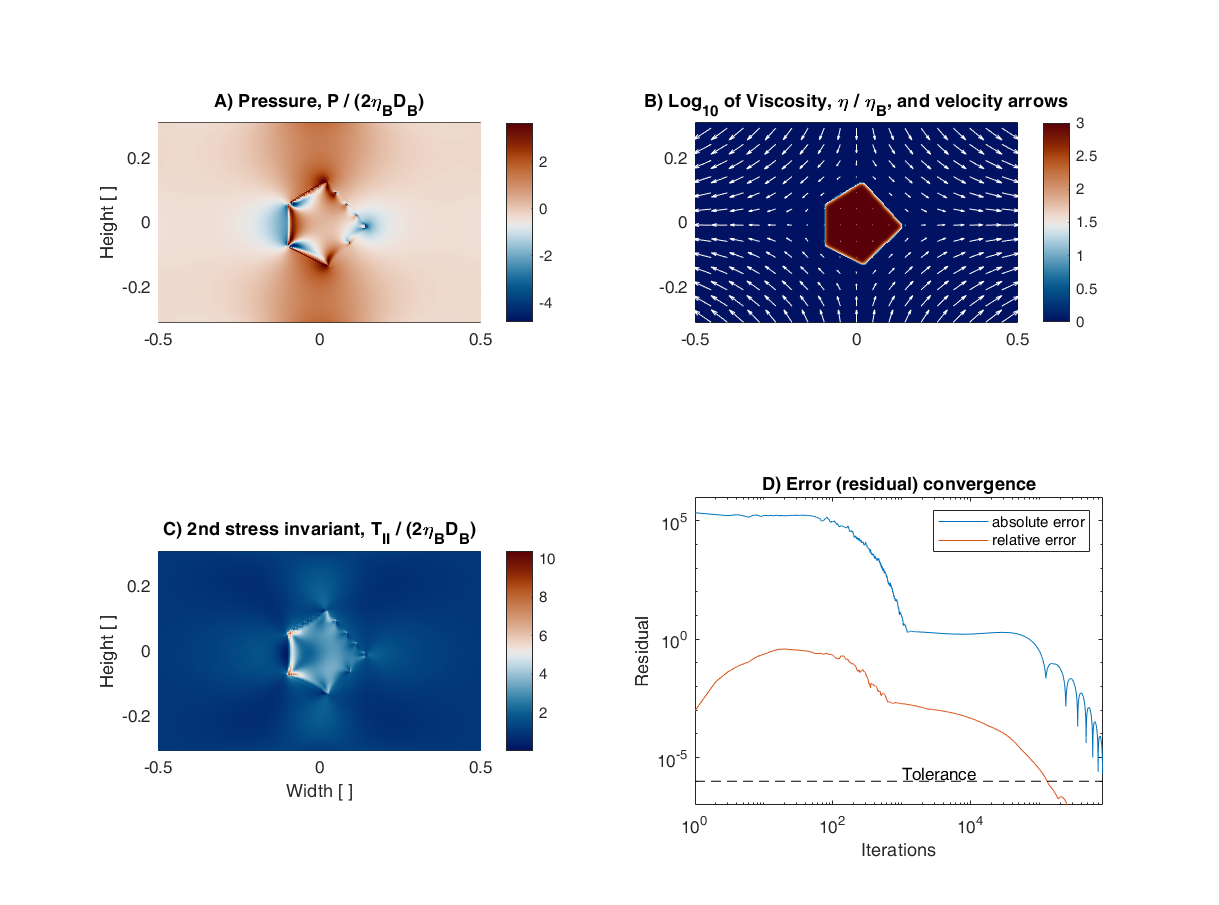
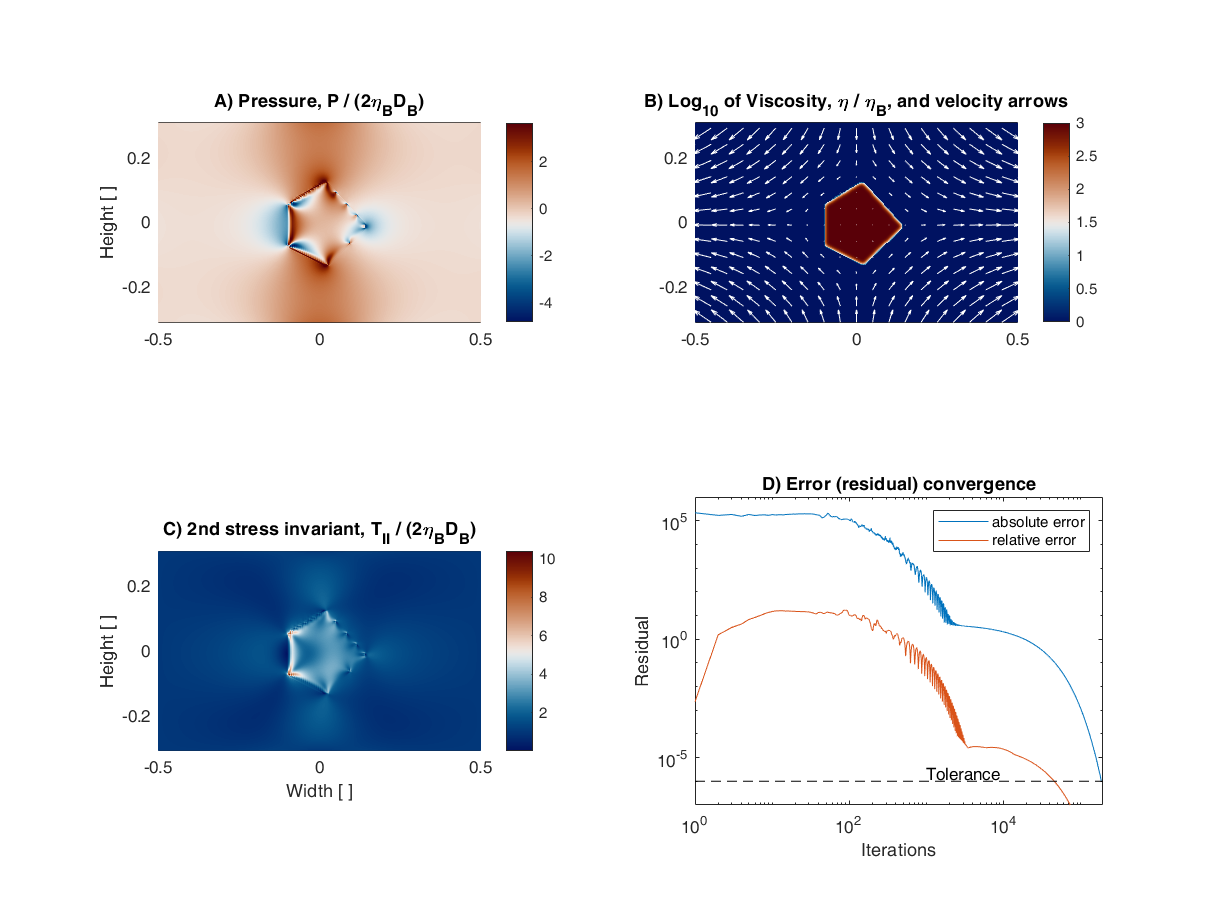
speedup

diff --git a/Examples_Matlab/FIG09_MulitInclusions.m b/Examples_Matlab/FIG09_MulitInclusions.m
@@ -80,8 +80,7 @@ elseif ps==0,   VX      =  D_B*Y_vx;        VY      =   0*Y_vy; end
 % Parameters for pseudo-transient iterations
 tol             = 1e-6;             err_absolute    = 1;            err_relative = 1;
 %%% Numerical parameters for iterative solver %%%
-%CFLV            = 1/5;              CFLP            = CFLV/nx/20;   % Numerical parameter for iterative solver
-CFLV            = 1/5;              CFLP            = CFLV/nx/50;   % Numerical parameter for iterative solver
+CFLV            = 1/2.10;           CFLP            = CFLV/nx/25;   % Numerical parameter for iterative solver
 dpt_P           = zeros(nx,ny);
 dpt_Vx          = CFLV./(max(ETA(1:end-1,2:end-1),ETA(2:end,2:end-1))/dx^2 + max(ETA_XY(:,1:end-1),ETA_XY(:,2:end))/dx/dy);
 dpt_Vy          = CFLV./(max(ETA(2:end-1,1:end-1),ETA(2:end-1,2:end))/dy^2 + max(ETA_XY(1:end-1,:),ETA_XY(2:end,:))/dx/dy);

diff --git a/A_simple_computer_program_Matlab_v2_corrected.m b/A_simple_computer_program_Matlab_v2_corrected.m
@@ -35,7 +35,7 @@ elseif ps==0,   VX      =  D_B*Y_vx;        VY      =   0*Y_vy; end
 % Parameters for pseudo-transient iterations
 tol             = 5e-6;             err_absolute    = 1;            err_relative = 1;
 %%% Numerical parameters for iterative solver %%%
-CFLV            = 1/5;              CFLP            = CFLV/nx/20;   % Numerical parameter for iterative solver
+CFLV            = 1/2.05;           CFLP            = CFLV/nx*2.5;  % Numerical parameter for iterative solver
 dpt_P           = zeros(nx,ny);
 dpt_Vx          = CFLV./(max(ETA(1:end-1,2:end-1),ETA(2:end,2:end-1))/dx^2 + max(ETA_XY(:,1:end-1),ETA_XY(:,2:end))/dx/dy);
 dpt_Vy          = CFLV./(max(ETA(2:end-1,1:end-1),ETA(2:end-1,2:end))/dy^2 + max(ETA_XY(1:end-1,:),ETA_XY(2:end,:))/dx/dy);

diff --git a/A_simple_computer_program_Octave_v2_corrected.m b/A_simple_computer_program_Octave_v2_corrected.m
@@ -47,7 +47,7 @@ elseif ps==0,   VX      =  D_B*Y_vx;        VY      =   0*Y_vy; end
 % Parameters for pseudo-transient iterations
 tol             = 5e-6;             err_absolute    = 1;            err_relative = 1;
 %%% Numerical parameters for iterative solver %%%
-CFLV            = 1/5;              CFLP            = CFLV/nx/20;   % Numerical parameter for iterative solver
+CFLV            = 1/2.05;           CFLP            = CFLV/nx*2.5;  % Numerical parameter for iterative solver
 dpt_P           = zeros(nx,ny);
 dpt_Vx          = CFLV./(max(ETA(1:end-1,2:end-1),ETA(2:end,2:end-1))/dx^2 + max(ETA_XY(:,1:end-1),ETA_XY(:,2:end))/dx/dy);
 dpt_Vy          = CFLV./(max(ETA(2:end-1,1:end-1),ETA(2:end-1,2:end))/dy^2 + max(ETA_XY(1:end-1,:),ETA_XY(2:end,:))/dx/dy);

diff --git a/Examples_Matlab/FIG06a_Rectangle_PS.m b/Examples_Matlab/FIG06a_Rectangle_PS.m
@@ -38,7 +38,7 @@ elseif ps==0,   VX      =  D_B*Y_vx;        VY      =   0*Y_vy; end
 % Parameters for pseudo-transient iterations
 tol             = 1e-6;             err_absolute    = 1;            err_relative = 1;
 %%% Numerical parameters for iterative solver %%%
-CFLV            = 1/5;              CFLP            = CFLV/nx/20;   % Numerical parameter for iterative solver
+CFLV            = 1/2.05;           CFLP            = CFLV/nx/3;    % Numerical parameter for iterative solver
 dpt_P           = zeros(nx,ny);
 dpt_Vx          = CFLV./(max(ETA(1:end-1,2:end-1),ETA(2:end,2:end-1))/dx^2 + max(ETA_XY(:,1:end-1),ETA_XY(:,2:end))/dx/dy);
 dpt_Vy          = CFLV./(max(ETA(2:end-1,1:end-1),ETA(2:end-1,2:end))/dy^2 + max(ETA_XY(1:end-1,:),ETA_XY(2:end,:))/dx/dy);

diff --git a/Examples_Matlab/FIG06b_Rectangle_SS.m b/Examples_Matlab/FIG06b_Rectangle_SS.m
@@ -38,7 +38,7 @@ elseif ps==0,   VX      =  D_B*Y_vx;        VY      =   0*Y_vy; end
 % Parameters for pseudo-transient iterations
 tol             = 1e-6;             err_absolute    = 1;            err_relative = 1;
 %%% Numerical parameters for iterative solver %%%
-CFLV            = 1/5;              CFLP            = CFLV/nx/20;   % Numerical parameter for iterative solver
+CFLV            = 1/2.05;           CFLP            = CFLV/nx/3;    % Numerical parameter for iterative solver
 dpt_P           = zeros(nx,ny);
 dpt_Vx          = CFLV./(max(ETA(1:end-1,2:end-1),ETA(2:end,2:end-1))/dx^2 + max(ETA_XY(:,1:end-1),ETA_XY(:,2:end))/dx/dy);
 dpt_Vy          = CFLV./(max(ETA(2:end-1,1:end-1),ETA(2:end-1,2:end))/dy^2 + max(ETA_XY(1:end-1,:),ETA_XY(2:end,:))/dx/dy);

diff --git a/Examples_Matlab/FIG08a_Ellipse_linVisc.m b/Examples_Matlab/FIG08a_Ellipse_linVisc.m
@@ -35,7 +35,7 @@ elseif ps==0,   VX      =  D_B*Y_vx;        VY      =   0*Y_vy; end
 % Parameters for pseudo-transient iterations
 tol             = 1e-6;             err_absolute    = 1;            err_relative = 1;
 %%% Numerical parameters for iterative solver %%%
-CFLV            = 1/5;              CFLP            = CFLV/nx/20;   % Numerical parameter for iterative solver
+CFLV            = 1/2.05;           CFLP            = CFLV/nx/3;    % Numerical parameter for iterative solver
 dpt_P           = zeros(nx,ny);
 dpt_Vx          = CFLV./(max(ETA(1:end-1,2:end-1),ETA(2:end,2:end-1))/dx^2 + max(ETA_XY(:,1:end-1),ETA_XY(:,2:end))/dx/dy);
 dpt_Vy          = CFLV./(max(ETA(2:end-1,1:end-1),ETA(2:end-1,2:end))/dy^2 + max(ETA_XY(1:end-1,:),ETA_XY(2:end,:))/dx/dy);

diff --git a/Examples_Matlab/FIG08b_Ellipse_pwlaw5.m b/Examples_Matlab/FIG08b_Ellipse_pwlaw5.m
@@ -35,7 +35,7 @@ elseif ps==0,   VX      =  D_B*Y_vx;        VY      =   0*Y_vy; end
 % Parameters for pseudo-transient iterations
 tol             = 1e-6;             err_absolute    = 1;            err_relative = 1;
 %%% Numerical parameters for iterative solver %%%
-CFLV            = 1/5;              CFLP            = CFLV/nx/20;   % Numerical parameter for iterative solver
+CFLV            = 1/2.05;           CFLP            = CFLV/nx/3;    % Numerical parameter for iterative solver
 dpt_P           = zeros(nx,ny);
 dpt_Vx          = CFLV./(max(ETA(1:end-1,2:end-1),ETA(2:end,2:end-1))/dx^2 + max(ETA_XY(:,1:end-1),ETA_XY(:,2:end))/dx/dy);
 dpt_Vy          = CFLV./(max(ETA(2:end-1,1:end-1),ETA(2:end-1,2:end))/dy^2 + max(ETA_XY(1:end-1,:),ETA_XY(2:end,:))/dx/dy);

diff --git a/Examples_Matlab/FIG10_Garnet.m b/Examples_Matlab/FIG10_Garnet.m
@@ -41,7 +41,7 @@ elseif ps==0,   VX      =  D_B*Y_vx;        VY      =   0*Y_vy; end
 % Parameters for pseudo-transient iterations
 tol             = 1e-6;             err_absolute    = 1;            err_relative = 1;
 %%% Numerical parameters for iterative solver %%%
-CFLV            = 1/5;              CFLP            = CFLV/nx/20;   % Numerical parameter for iterative solver
+CFLV            = 1/2.10;           CFLP            = CFLV/nx*2;    % Numerical parameter for iterative solver
 dpt_P           = zeros(nx,ny);
 dpt_Vx          = CFLV./(max(ETA(1:end-1,2:end-1),ETA(2:end,2:end-1))/dx^2 + max(ETA_XY(:,1:end-1),ETA_XY(:,2:end))/dx/dy);
 dpt_Vy          = CFLV./(max(ETA(2:end-1,1:end-1),ETA(2:end-1,2:end))/dy^2 + max(ETA_XY(1:end-1,:),ETA_XY(2:end,:))/dx/dy);

diff --git a/Examples_Matlab/FIG11_Boudinage.m b/Examples_Matlab/FIG11_Boudinage.m
@@ -34,7 +34,7 @@ elseif ps==0,   VX      =  D_B*Y_vx;        VY      =   0*Y_vy; end
 % Parameters for pseudo-transient iterations
 tol             = 1e-6;             err_absolute    = 1;            err_relative = 1;
 %%% Numerical parameters for iterative solver %%%
-CFLV            = 1/5;              CFLP            = CFLV/nx/20;   % Numerical parameter for iterative solver
+CFLV            = 1/2.05;           CFLP            = CFLV/nx*3;    % Numerical parameter for iterative solver
 dpt_P           = zeros(nx,ny);
 dpt_Vx          = CFLV./(max(ETA(1:end-1,2:end-1),ETA(2:end,2:end-1))/dx^2 + max(ETA_XY(:,1:end-1),ETA_XY(:,2:end))/dx/dy);
 dpt_Vy          = CFLV./(max(ETA(2:end-1,1:end-1),ETA(2:end-1,2:end))/dy^2 + max(ETA_XY(1:end-1,:),ETA_XY(2:end,:))/dx/dy);

diff --git a/README.md b/README.md
@@ -23,9 +23,15 @@ ps          = 1;        % ps = 1 models pure shear; ps = 0 models simple shear
 ```
 
 where in Fig. 6a we activate pure shear, whereas in Fig. 6b we activate simple shear.
+<figure>
+    <img src="figures/Fig_06a_output.png" width="800">
+    <figcaption>Fig. 6a setup: hard rectangular inclusion, pure shear</figcaption>
+</figure>
+<figure>
+    <img src="figures/Fig_06b_output.png" width="800">
+    <figcaption>Fig. 6b: hard rectangular inclusion, simple shear</figcaption>
+</figure>
 
-<img src="figures/Fig_06a_output.png" width="800">
-<img src="figures/Fig_06b_output.png" width="800">
 
 
 
@@ -43,20 +49,30 @@ n_exp       = 5;
 
 where in Fig. 8b we chose a power-law exponent > 1. 
 
-<img src="figures/Fig_08a_output.png" width="800">
-<img src="figures/Fig_08b_output.png" width="800">
+<figure>
+    <img src="figures/Fig_08a_output.png" width="800">
+    <figcaption>Fig. 8a: soft elliptical inclusion, linear viscous</figcaption>
+</figure>
+<figure>
+    <img src="figures/Fig_08b_output.png" width="800">
+    <figcaption>Fig. 8b: soft elliptical inclusion, power-law viscous</figcaption>
+</figure>
+
 
 ### Multiple inclusions
 
-Fig. 9 illustrates the interaction between multiple inclusions. This model configuration is calculated on a higher resolution (901 x 601) and can take multiple hours to fully converge.
+Fig. 9 illustrates the interaction between multiple inclusions. This model configuration is calculated on a higher resolution (901 x 601) and takes multiple hours to fully converge. Results will be added later.
 
-<img src="figures/Fig_9_output.png" width="800">
 
 ### Garnet
 
 In Fig. 10 we want to investigate whether we can infer the pressure field inside and around a rigid garnet porphyroblast. To define the shape of the garnet we created a polygon using Matlab's [ginput](https://ch.mathworks.com/help/matlab/ref/ginput.html) function on a photo of a real rock.
 
-<img src="figures/Fig_10_output.png" width="800">
+<figure>
+    <img src="figures/Fig_10_output.png" width="800">
+    <figcaption>Fig. 10: garnet inclusion</figcaption>
+</figure>
+
 
 Note the error convergence behaviour. In this example, the (absolute) error reaches a plateau before fully converging to the bottom. This behaviour is typical for the pseudo-transient method.
 
@@ -64,8 +80,11 @@ Note the error convergence behaviour. In this example, the (absolute) error reac
 
 In Fig. 11 we show the pressure and stress distribution inside and between 2 separating boudin blocks. Feel free to modify the code visualization to confirm that the horizontal total stress (Sxx) is indeed continuous across the weak gap, as discussed in Halter et al. 2022.
 
-<img src="figures/Fig_11_output.png" width="800">
 
+<figure>
+    <img src="figures/Fig_11_output.png" width="800">
+    <figcaption>Fig. 11: boudinage</figcaption>
+</figure>
 
 ### Computation time
 
@@ -73,13 +92,12 @@ An overview of calculation times obtained on a commercial laptop (Lenovo ThinkPa
 
 | Model configuration                 | Resolution (nx,ny) | Tolerance | Computation time (seconds) |
 |-------------------------------------|--------------------|-----------|----------------------------|
-| Fig. 6a - Rectangle pure shear      | (201,201)          | 1e-6      |                       3397 |
-| Fig. 6b - Rectangle simple shear    | (201,201)          | 1e-6      |                       3714 |
-| Fig. 8a - Ellipse linear viscous    | (201,201)          | 1e-6      |                       4220 |
-| Fig. 8b - Ellipes power-law viscous | (201,201)          | 1e-6      |                       4184 |
-| Fig. 9 - Multiple inclusions        | (901,601)          | 1e-6      |                       TBD  |
-| Fig. 10 - Garnet                    | (301,186)          | 1e-6      |                       7373 |
-| Fig. 11 - Boudinage                 | (201,201)          | 1e-6      |                       4259 |
+| Fig. 6a - Rectangle pure shear      | (201,201)          | 1e-6      |                        450 |
+| Fig. 6b - Rectangle simple shear    | (201,201)          | 1e-6      |                        450 |
+| Fig. 8a - Ellipse linear viscous    | (201,201)          | 1e-6      |                        207 |
+| Fig. 8b - Ellipes power-law viscous | (201,201)          | 1e-6      |                        162 |
+| Fig. 10 - Garnet                    | (301,186)          | 1e-6      |                        803 |
+| Fig. 11 - Boudinage                 | (201,201)          | 1e-6      |                         28 |
 
 Note that there exist other codes using different numerical approaches (e.g., [MDOODZ7.0](https://github.com/tduretz/MDOODZ7.0)) which are capable of solving the same problem much faster. However, as emphasized in Halter et al. 2022, the beauty in our code lies in it's simplicity and readability, making coding accessible and transparent.
 
